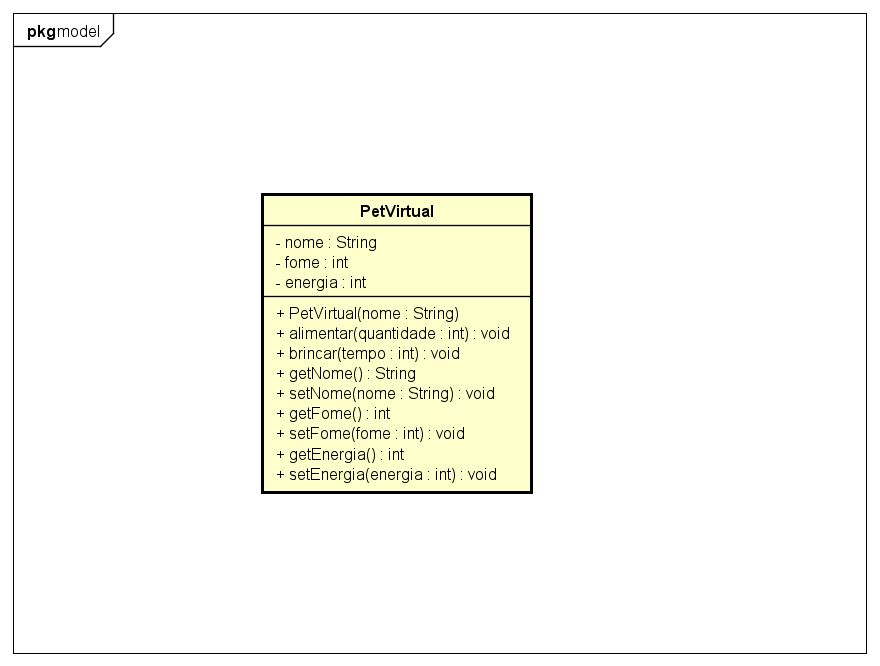
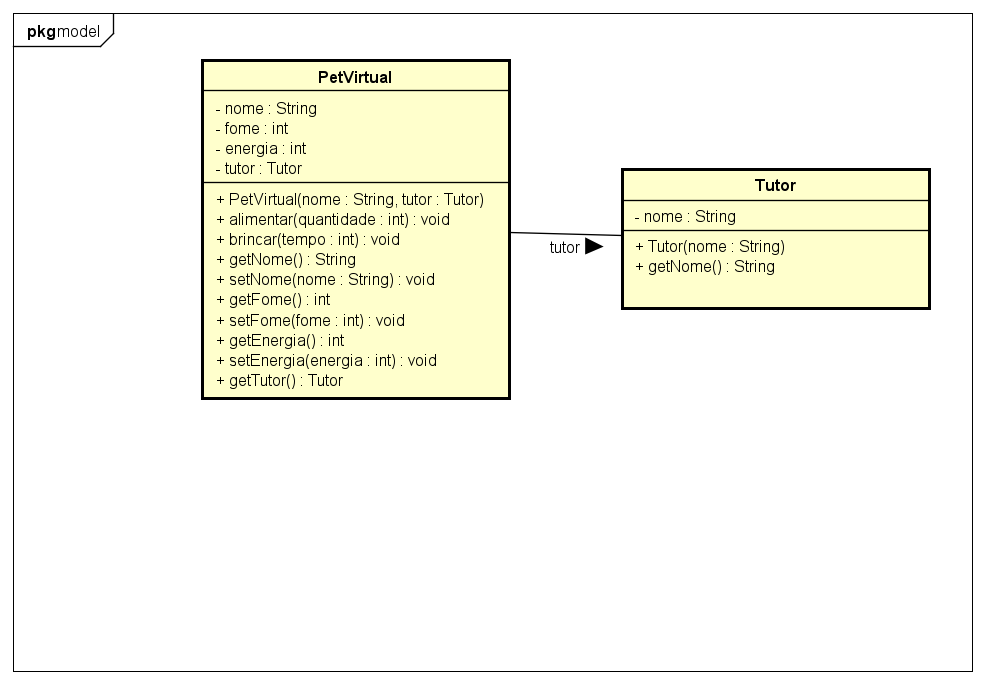
feat: implementa associacao entre PetVirtual e Tutor

Changed region(s): [[0.1841, 0.0601, 0.9511, 0.7508], [0.0, 0.0, 0.1534, 0.991], [0.9818, 0.03, 1.0, 0.991]]

diff --git a/src/br/com/fiapride/main/SistemaPrincipal.java b/src/br/com/fiapride/main/SistemaPrincipal.java
@@ -2,6 +2,7 @@ package br.com.fiapride.main;
 
 import java.util.Scanner;
 import br.com.fiapride.model.PetVirtual;
+import br.com.fiapride.model.Tutor;
 
 public class SistemaPrincipal {
 
@@ -9,7 +10,8 @@ public class SistemaPrincipal {
 
         Scanner scanner = new Scanner(System.in);
 
-        PetVirtual pet = new PetVirtual("Pixel");
+        Tutor tutor = new Tutor("Lucas");
+        PetVirtual pet = new PetVirtual("Pixel", tutor);;
 
         int opcao = -1;
 
@@ -42,6 +44,7 @@ public class SistemaPrincipal {
 
                 System.out.println("\n--- STATUS ---");
                 System.out.println("Nome: " + pet.getNome());
+                System.out.println("Tutor: " + pet.getTutor().getNome());
                 System.out.println("Fome: " + pet.getFome());
                 System.out.println("Energia: " + pet.getEnergia());
 

diff --git a/src/br/com/fiapride/model/PetVirtual.java b/src/br/com/fiapride/model/PetVirtual.java
@@ -5,11 +5,13 @@ public class PetVirtual {
     private String nome;
     private int fome;
     private int energia;
+    private Tutor tutor;
 
-    public PetVirtual(String nome) {
+    public PetVirtual(String nome, Tutor tutor) {
         setNome(nome);
         setFome(40);
         setEnergia(80);
+        this.tutor = tutor;
     }
 
     public void alimentar(int quantidade) {
@@ -87,5 +89,9 @@ public class PetVirtual {
         }
 
         this.energia = energia;
+    }
+
+    public Tutor getTutor() {
+        return tutor;
     }
 }

diff --git a/src/br/com/fiapride/main/TestePetVirtual.java b/src/br/com/fiapride/main/TestePetVirtual.java
@@ -1,12 +1,14 @@
 package br.com.fiapride.main;
 
 import br.com.fiapride.model.PetVirtual;
+import br.com.fiapride.model.Tutor;
 
 public class TestePetVirtual {
 
     public static void main(String[] args) {
 
-    	PetVirtual pet = new PetVirtual("Pixel");
+    	Tutor tutor = new Tutor("Lucas");
+    	PetVirtual pet = new PetVirtual("Pixel", tutor);
 
         System.out.println("--- ESTADO INICIAL ---");
         System.out.println("Nome: " + pet.getNome());

diff --git a/src/br/com/fiapride/model/Tutor.java b/src/br/com/fiapride/model/Tutor.java
@@ -1,0 +1,14 @@
+package br.com.fiapride.model;
+
+public class Tutor {
+
+    private String nome;
+
+    public Tutor(String nome) {
+        this.nome = nome;
+    }
+
+    public String getNome() {
+        return nome;
+    }
+}

diff --git a/README.md b/README.md
@@ -6,18 +6,22 @@ O projeto começou com o objeto Garrafa e depois foi alterado para PetVirtual pa
 
 ## Atributos
 
+O PetVirtual possui:
+
 - `nome`
 - `fome`
 - `energia`
+- `tutor`
 
-Os atributos são `private` para proteger o estado do objeto.
+Os atributos são privados para proteger o estado do objeto.
 
 ## Construtor
 
-O PetVirtual recebe o nome no momento em que é criado:
+O PetVirtual recebe o nome e um Tutor no momento em que é criado:
 
 ```java
-PetVirtual pet = new PetVirtual("Pixel");
+Tutor tutor = new Tutor("Lucas");
+PetVirtual pet = new PetVirtual("Pixel", tutor);
 ```
 
 O pet inicia com:
@@ -45,17 +49,47 @@ Os setters controlam as alterações e impedem:
 - fome menor que 0 ou maior que 100;
 - energia menor que 0 ou maior que 100.
 
+## Associação com Tutor
+
+Foi criada a classe `Tutor`, que representa o responsável pelo PetVirtual.
+
+Cada PetVirtual possui um Tutor associado.
+
+Exemplo:
+
+```java
+Tutor tutor = new Tutor("Lucas");
+PetVirtual pet = new PetVirtual("Pixel", tutor);
+```
+
+O nome do tutor pode ser consultado com:
+
+```java
+pet.getTutor().getNome();
+```
+
 ## Sistema Principal
 
-O arquivo `SistemaPrincipal.java` possui um menu interativo:
+O `SistemaPrincipal.java` possui o menu:
 
 1. Alimentar
 2. Brincar
 3. Ver status
 0. Sair
 
+Na opção de status também é exibido o nome do tutor associado ao pet.
+
 ## Testes
 
-O arquivo `TestePetVirtual.java` testa os comportamentos do objeto e também tenta inserir valores inválidos para verificar se o encapsulamento está funcionando.
+O `TestePetVirtual.java` testa:
 
-Autor: Lucas Mota - RM566670
+- alimentação;
+- brincadeira;
+- valores inválidos;
+- proteção dos atributos.
+
+## UML
+
+O diagrama UML representa as classes `PetVirtual` e `Tutor` e a associação entre elas.
+
+**Autor:** Lucas Mota - RM566670
